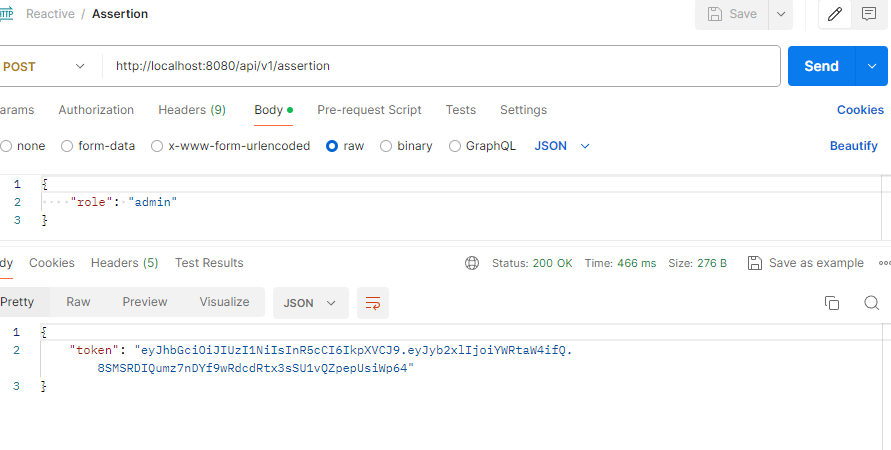
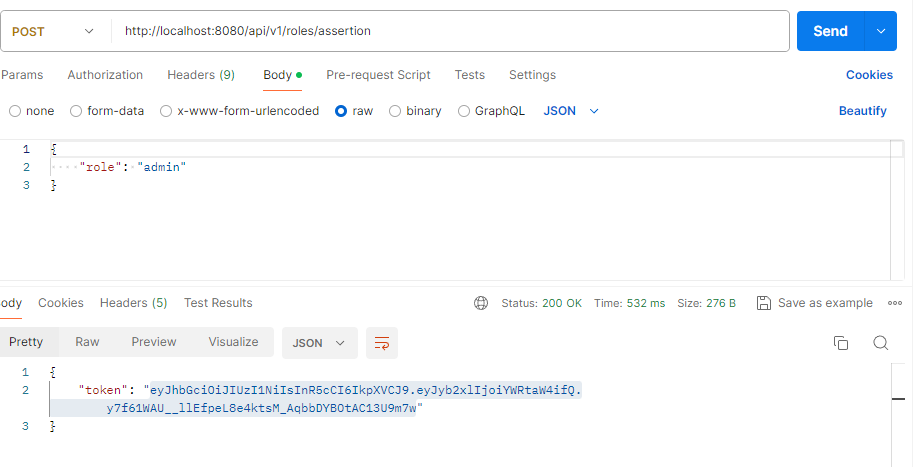
move assertion to its own controller

diff --git a/src/main/java/com/example/user_management/api/UserController.java b/src/main/java/com/example/user_management/api/UserController.java
@@ -24,8 +24,8 @@ import reactor.core.publisher.Flux;
 import reactor.core.publisher.Mono;
 
 @RestController
-@RequestMapping("/api/v1")
-public class ReactivePracticeController {    
+@RequestMapping("/api/v1/users")
+public class UserController {    
 
     // 1. Single Item (Mono)
     @GetMapping("/one")
@@ -42,29 +42,8 @@ public class ReactivePracticeController {
                    .delayElements(Duration.ofSeconds(1))
                    .doOnCancel(() -> System.out.println("Stream cancelled by UI")); // Delays each item by 1 second
     }
-
-    @PostMapping(value = "/assertion")
-    public Mono<Map<String, String>> postAssertion(@RequestBody(required = true) Map<String, String> request) {
-        
-        var role = request.get("role");
-        if (role == null ) {
-            return Mono.error(new ResponseStatusException(HttpStatus.NOT_FOUND, "Role not found"));
-        }
-
-        try {
-            Role.fromString(role);
-        } catch (IllegalArgumentException e) {
-            return Mono.error(new ResponseStatusException(HttpStatus.NOT_FOUND, "Invalid role provided."));
-        }
-        
-        var token = JwtUtil.generateToken(role);
-
-        return Mono.just(Map.of(
-                "token", token
-        ));
-    }
-
-    @GetMapping(value = "/users", produces = "text/event-stream")
+    
+    @GetMapping(produces = "text/event-stream")
     public Flux<Map<String, String>> getStreamOfUsers(
         @RequestHeader(value = "Authorization", required = true) String authorization,
         @RequestParam(required = true) String role) {
@@ -112,6 +91,4 @@ public class ReactivePracticeController {
           .delayElements(Duration.ofSeconds(1))
           .doOnCancel(() -> System.out.println("Stream cancelled by UI")); // Delays each item by 1 second
     }
-
-
 }

diff --git a/src/main/java/com/example/user_management/api/RoleController.java b/src/main/java/com/example/user_management/api/RoleController.java
@@ -1,0 +1,41 @@
+package com.example.user_management.api;
+
+import java.util.Map;
+
+import org.springframework.http.HttpStatus;
+import org.springframework.web.bind.annotation.PostMapping;
+import org.springframework.web.bind.annotation.RequestBody;
+import org.springframework.web.bind.annotation.RequestMapping;
+import org.springframework.web.bind.annotation.RestController;
+import org.springframework.web.server.ResponseStatusException;
+
+import com.example.user_management.data.Role;
+import com.example.user_management.utils.JwtUtil;
+
+import reactor.core.publisher.Mono;
+
+@RestController
+@RequestMapping("/api/v1/roles")
+public class RoleController {
+
+    @PostMapping(value = "/assertion")
+    public Mono<Map<String, String>> postAssertion(@RequestBody(required = true) Map<String, String> request) {
+        
+        var role = request.get("role");
+        if (role == null ) {
+            return Mono.error(new ResponseStatusException(HttpStatus.NOT_FOUND, "Role not found"));
+        }
+
+        try {
+            Role.fromString(role);
+        } catch (IllegalArgumentException e) {
+            return Mono.error(new ResponseStatusException(HttpStatus.NOT_FOUND, "Invalid role provided."));
+        }
+        
+        var token = JwtUtil.generateToken(role);
+
+        return Mono.just(Map.of(
+                "token", token
+        ));
+    }
+}
